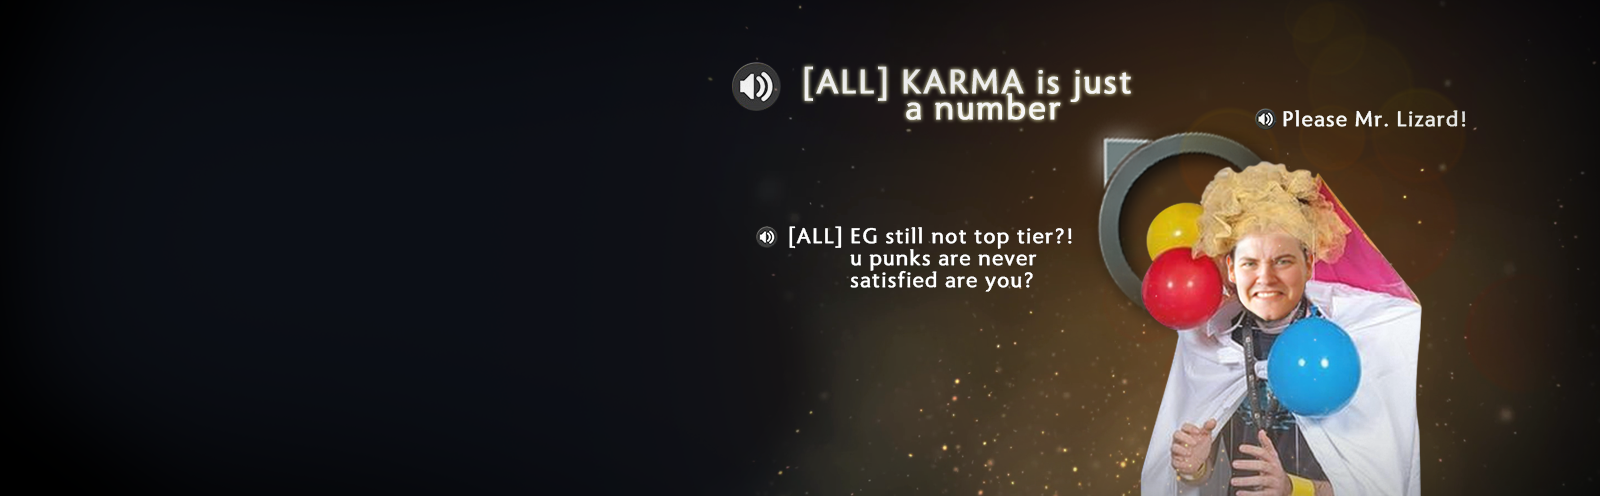
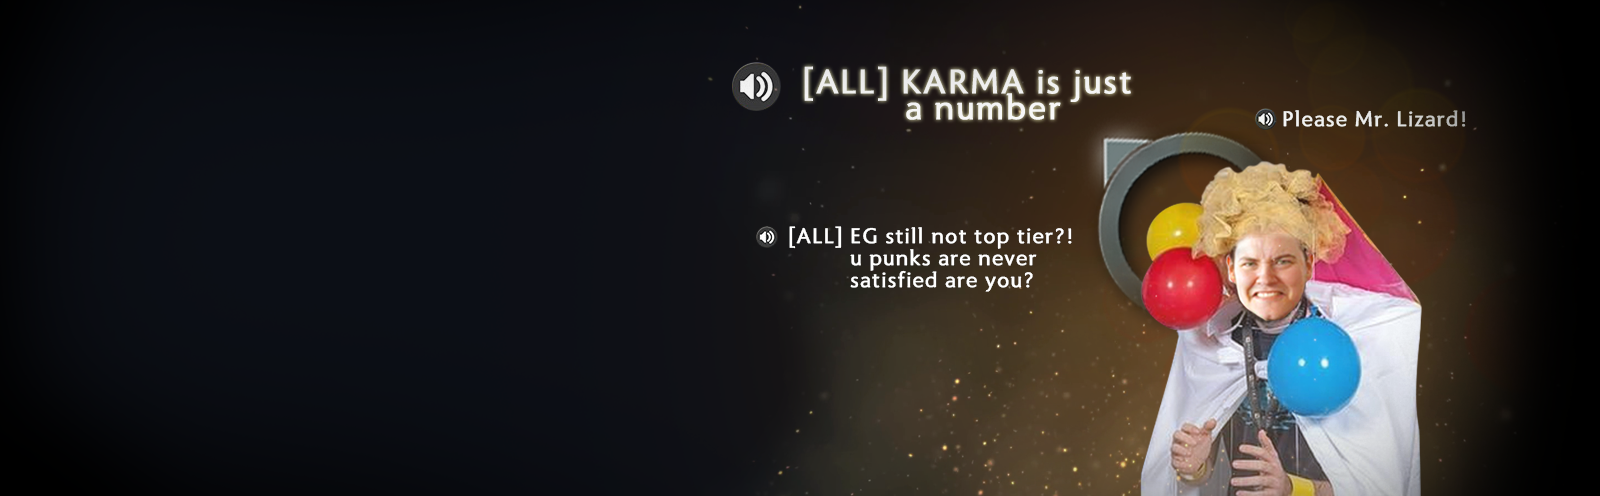
hover

Changed region(s): [[0.875, 0.3931, 1.0, 1.0], [0.875, 0.2117, 0.9062, 0.2722]]

diff --git a/assets/minus.css b/assets/minus.css
@@ -806,6 +806,14 @@ h2
     top: 107px;
 }
 
+input#AudioButton1:hover,
+input#AudioButton2:hover,
+input#AudioButton3:hover 
+{
+  border-radius: 50%;
+  box-shadow: 0 0 0 5px #f4f2b0, 0 0 0 10px #c7a35e;
+}
+
 #WeeklyReward
 {
 	margin: auto;
